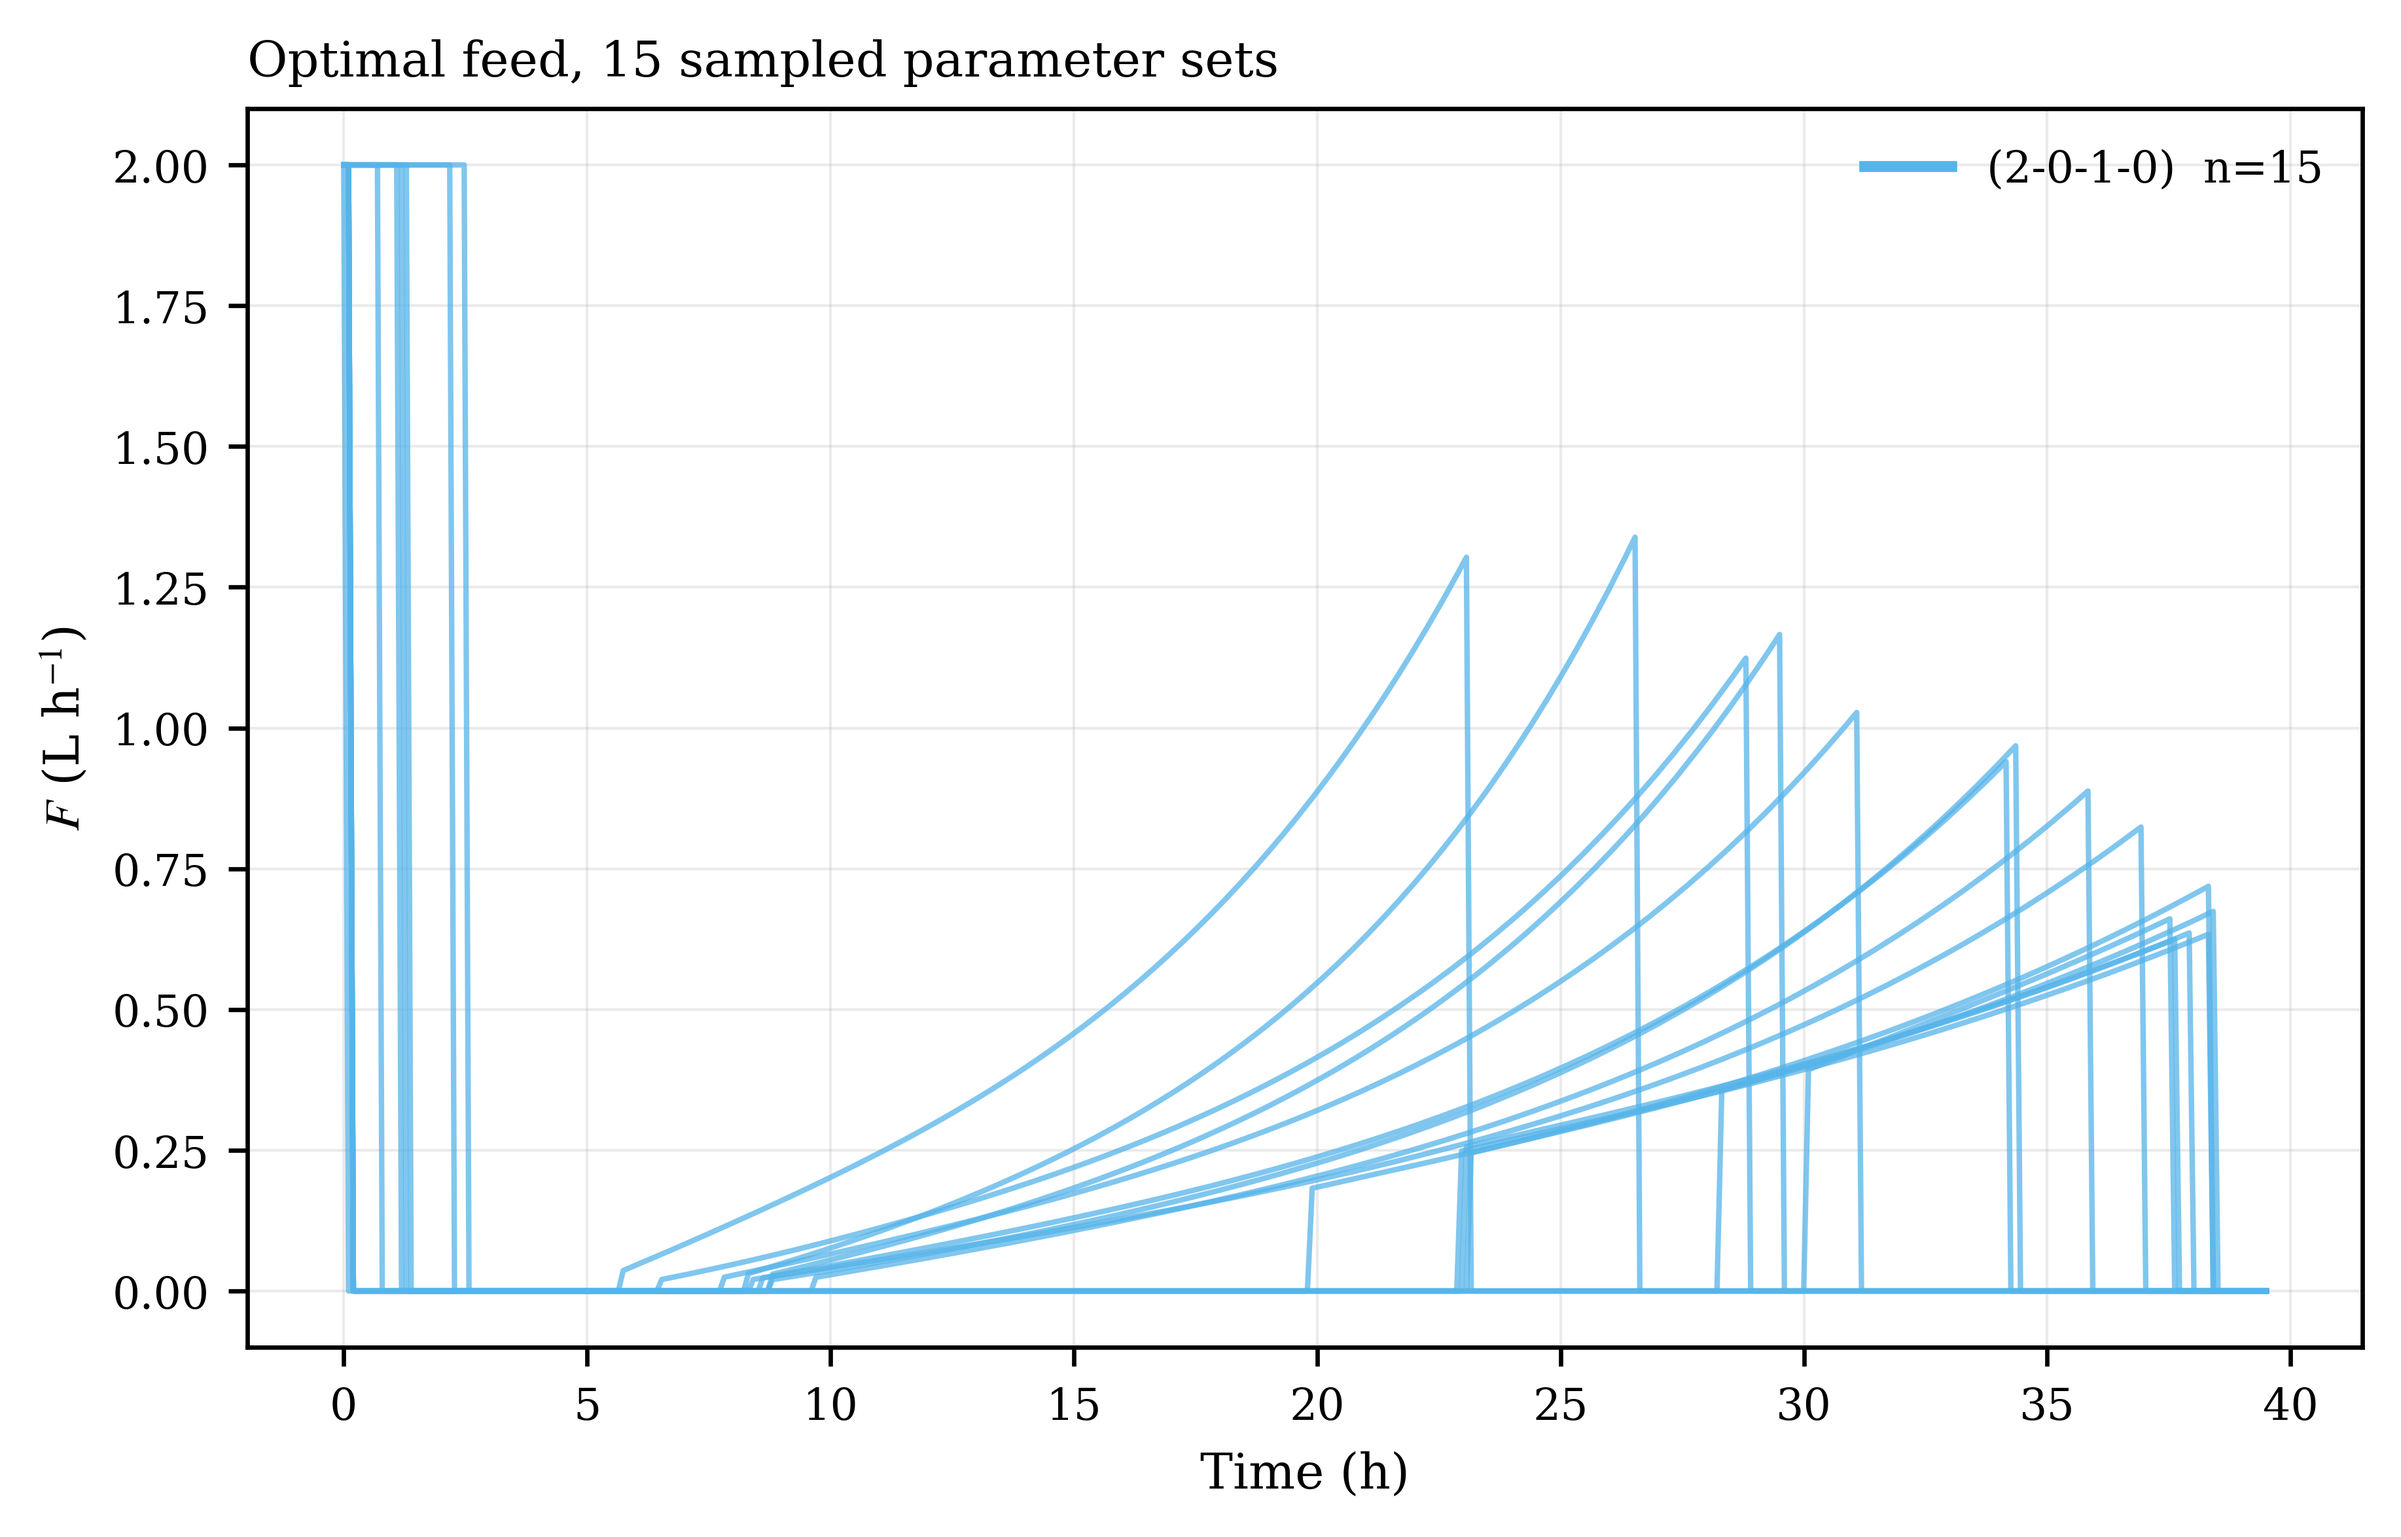
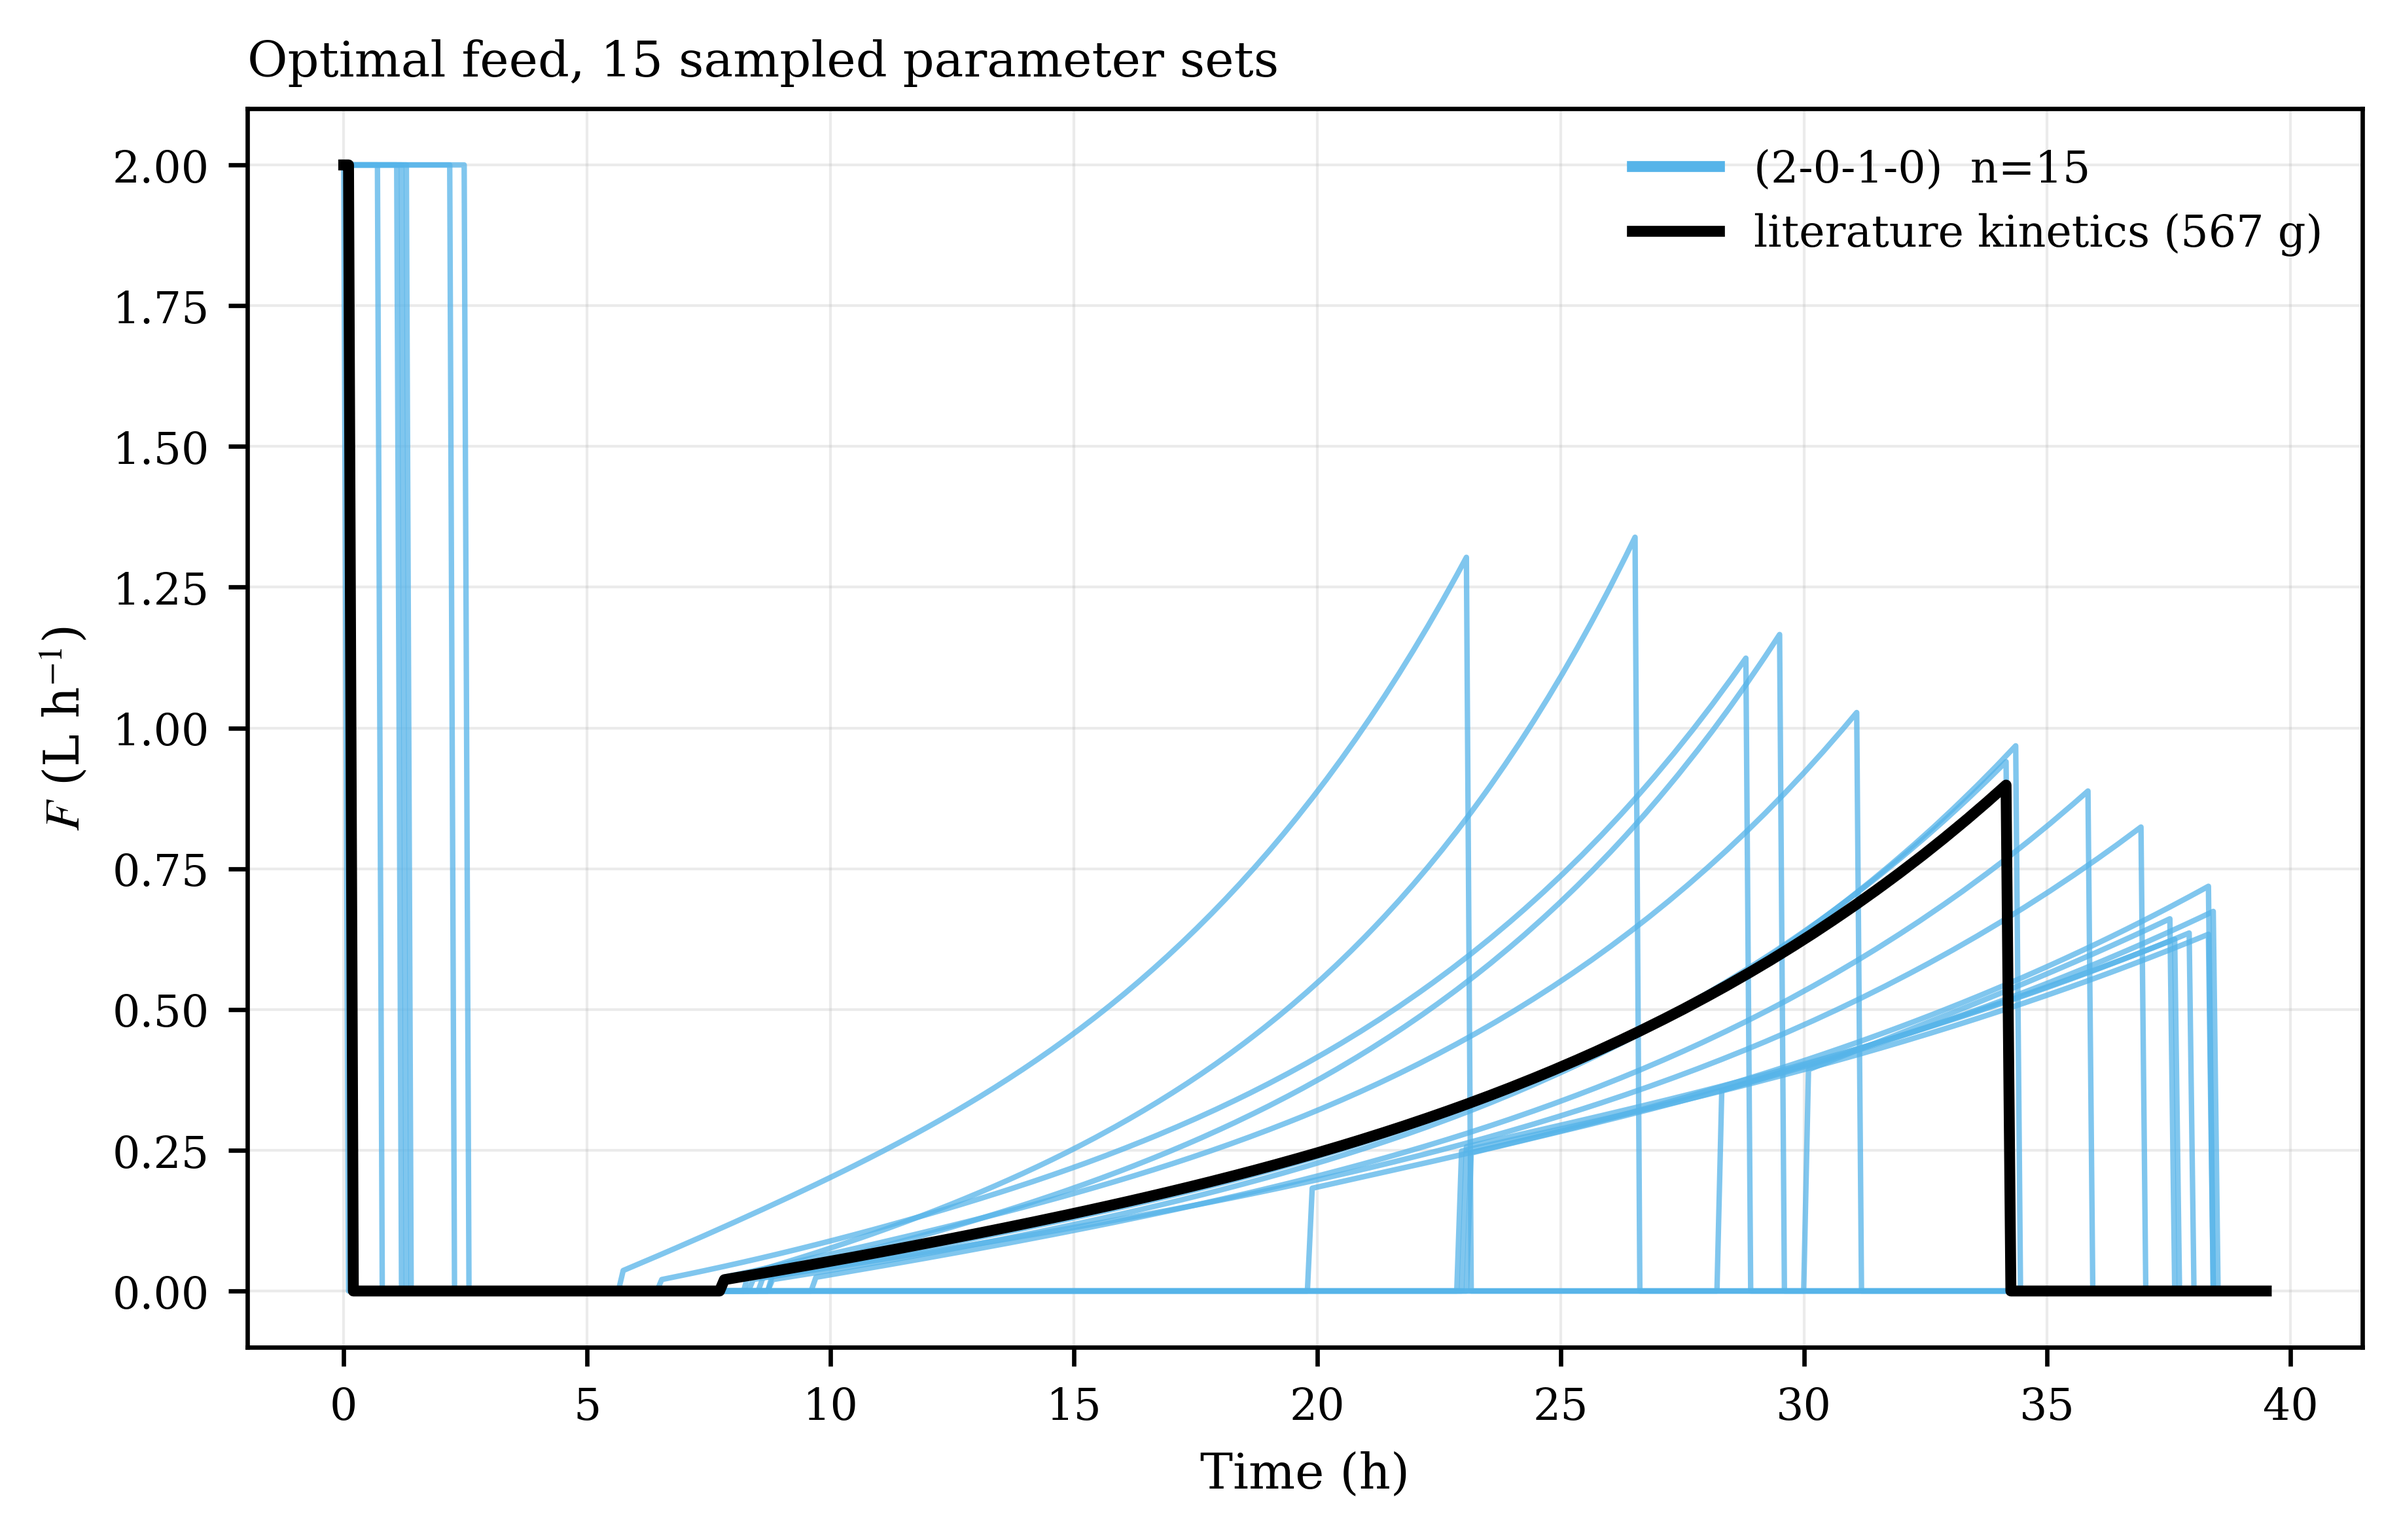
include reference model in the feed distribution

diff --git a/scripts/substrate_and_product_inhibition/mc_sampling/feed_ensemble.py b/scripts/substrate_and_product_inhibition/mc_sampling/feed_ensemble.py
@@ -57,6 +57,7 @@ HERE = Path(__file__).resolve().parent
 _TAG = f"balanced_cv{round(CV * 100):02d}"
 FEEDS_NPZ = HERE / f"feed_ensemble_{_TAG}.npz"
 FIGURE = HERE / f"feed_ensemble_{_TAG}.png"
+NOMINAL_NPZ = HERE / "feed_nominal_balanced.npz"   # one solve, cached
 N_PLOT = 400                             # points on the common plotting grid
 
 
@@ -252,7 +253,35 @@ def run(n=N, seed=SEED, cfg=CONFIG, out=FEEDS_NPZ, time_it=False):
     return feeds, T_grid, np.asarray(structs)
 
 
-def plot(path=FEEDS_NPZ, figure=FIGURE):
+def nominal_feed(cfg=CONFIG, out=NOMINAL_NPZ, force=False):
+    """Feed profile of the BALANCED model at the literature kinetics.
+
+    A single hybrid solve, cached, so it can be overlaid on the ensemble as a
+    reference without re-running the sampling. This is the trajectory every
+    figure in the deterministic sections refers to.
+    """
+    if out.exists() and not force:
+        z = np.load(out)
+        return z["t"], z["F"], float(z["PV"]), float(z["res_norm"])
+
+    from singulax.substrate_product_inhibition.hybrid import solve_hybrid
+    from singulax.substrate_product_inhibition.kinetics import BALANCED
+
+    print("solving the nominal balanced case (one hybrid solve)...", flush=True)
+    r = solve_hybrid(BALANCED, cfg)
+    if not r.ok:
+        print(f"   nominal solve did NOT converge: {r.status}")
+        return None, None, np.nan, r.res_norm
+    T_grid = np.linspace(0.0, cfg.t_end, N_PLOT)
+    F = np.interp(T_grid, r.T, r.F)
+    np.savez_compressed(out, t=T_grid, F=F, PV=r.PV, res_norm=r.res_norm,
+                        structure="-".join(map(str, r.structure)))
+    print(f"   PV = {r.PV:.2f} g, ||res|| = {r.res_norm:.2e}, "
+          f"structure {r.structure};  cached to {out.name}")
+    return T_grid, F, r.PV, r.res_norm
+
+
+def plot(path=FEEDS_NPZ, figure=FIGURE, nominal=True):
     """The ensemble of optimal feed profiles, one colour per draw."""
     z = np.load(path, allow_pickle=True)
     F, t = z["F"], z["t"]
@@ -279,9 +308,6 @@ def plot(path=FEEDS_NPZ, figure=FIGURE):
         "axes.grid": True, "grid.alpha": 0.25, "grid.linewidth": 0.5,
     })
     # Colour by the arc structure Stage 1 discovered, most common family first.
-    # Draws within a family share a bang/singular/batch pattern and differ only
-    # in switch times; draws in different families are qualitatively different
-    # policies, which is the thing worth seeing.
     oi = ["#56B4E9", "#E69F00", "#009E73", "#CC79A7", "#D55E00", "#0072B2"]
     fams = [s for s, _ in sorted(((s, int((structure == s).sum()))
                                   for s in set(structure.tolist())),
@@ -291,12 +317,19 @@ def plot(path=FEEDS_NPZ, figure=FIGURE):
     fig, ax = plt.subplots(figsize=(6.0, 3.8), constrained_layout=True)
     for f, s_ in zip(F, structure):
         ax.plot(t, f, color=colour[s_], lw=1.0, alpha=0.75)
+    handles = [plt.Line2D([], [], color=colour[s_], lw=2,
+                          label=f"({s_})  n={int((structure == s_).sum())}")
+               for s_ in fams]
+    if nominal:
+        t_n, F_n, pv_n, _ = nominal_feed()
+        if F_n is not None:
+            ax.plot(t_n, F_n, color="black", lw=2.0, zorder=5)
+            handles.append(plt.Line2D([], [], color="black", lw=2.0,
+                                      label=f"literature kinetics ({pv_n:.0f} g)"))
     ax.set_xlabel("Time (h)")
     ax.set_ylabel(r"$F$ (L h$^{-1}$)")
     ax.set_title(f"Optimal feed, {len(F)} sampled parameter sets", loc="left")
-    ax.legend(handles=[plt.Line2D([], [], color=colour[s_], lw=2,
-                                  label=f"({s_})  n={int((structure == s_).sum())}")
-                       for s_ in fams], loc="upper right")
+    ax.legend(handles=handles, loc="upper right")
     fig.savefig(figure, dpi=600, bbox_inches="tight")
     print(f"saved {figure}")
 
